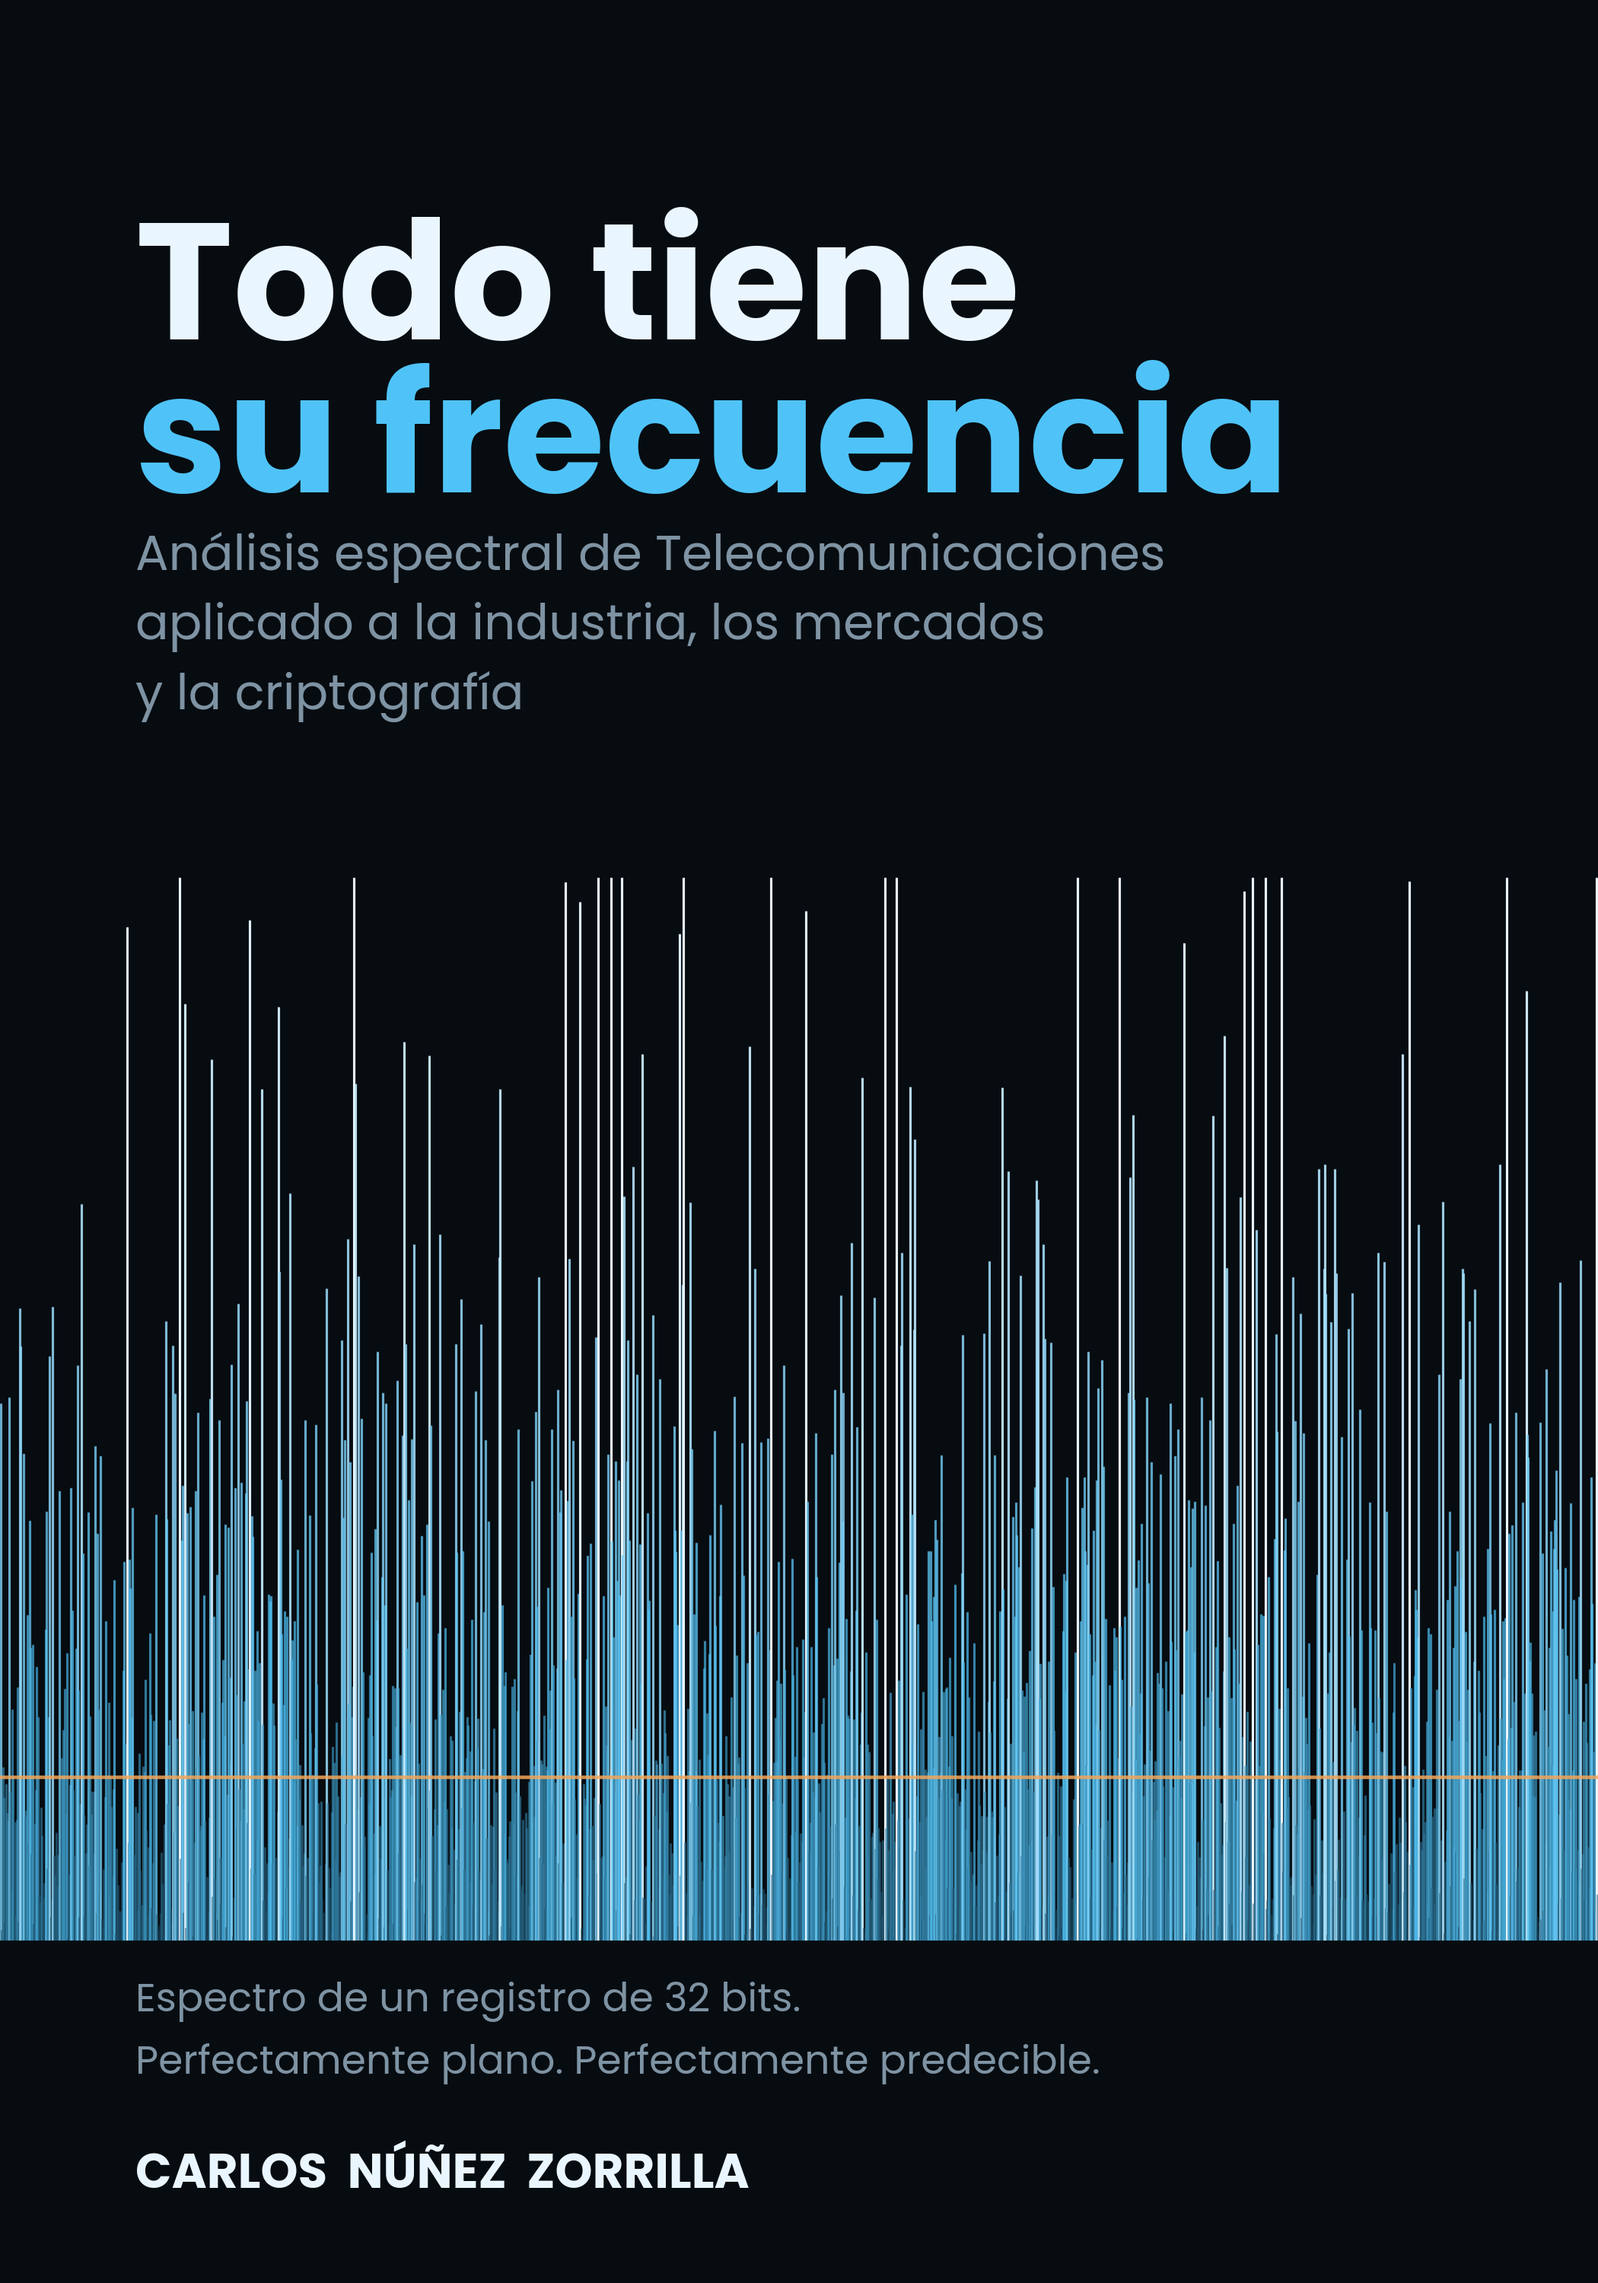
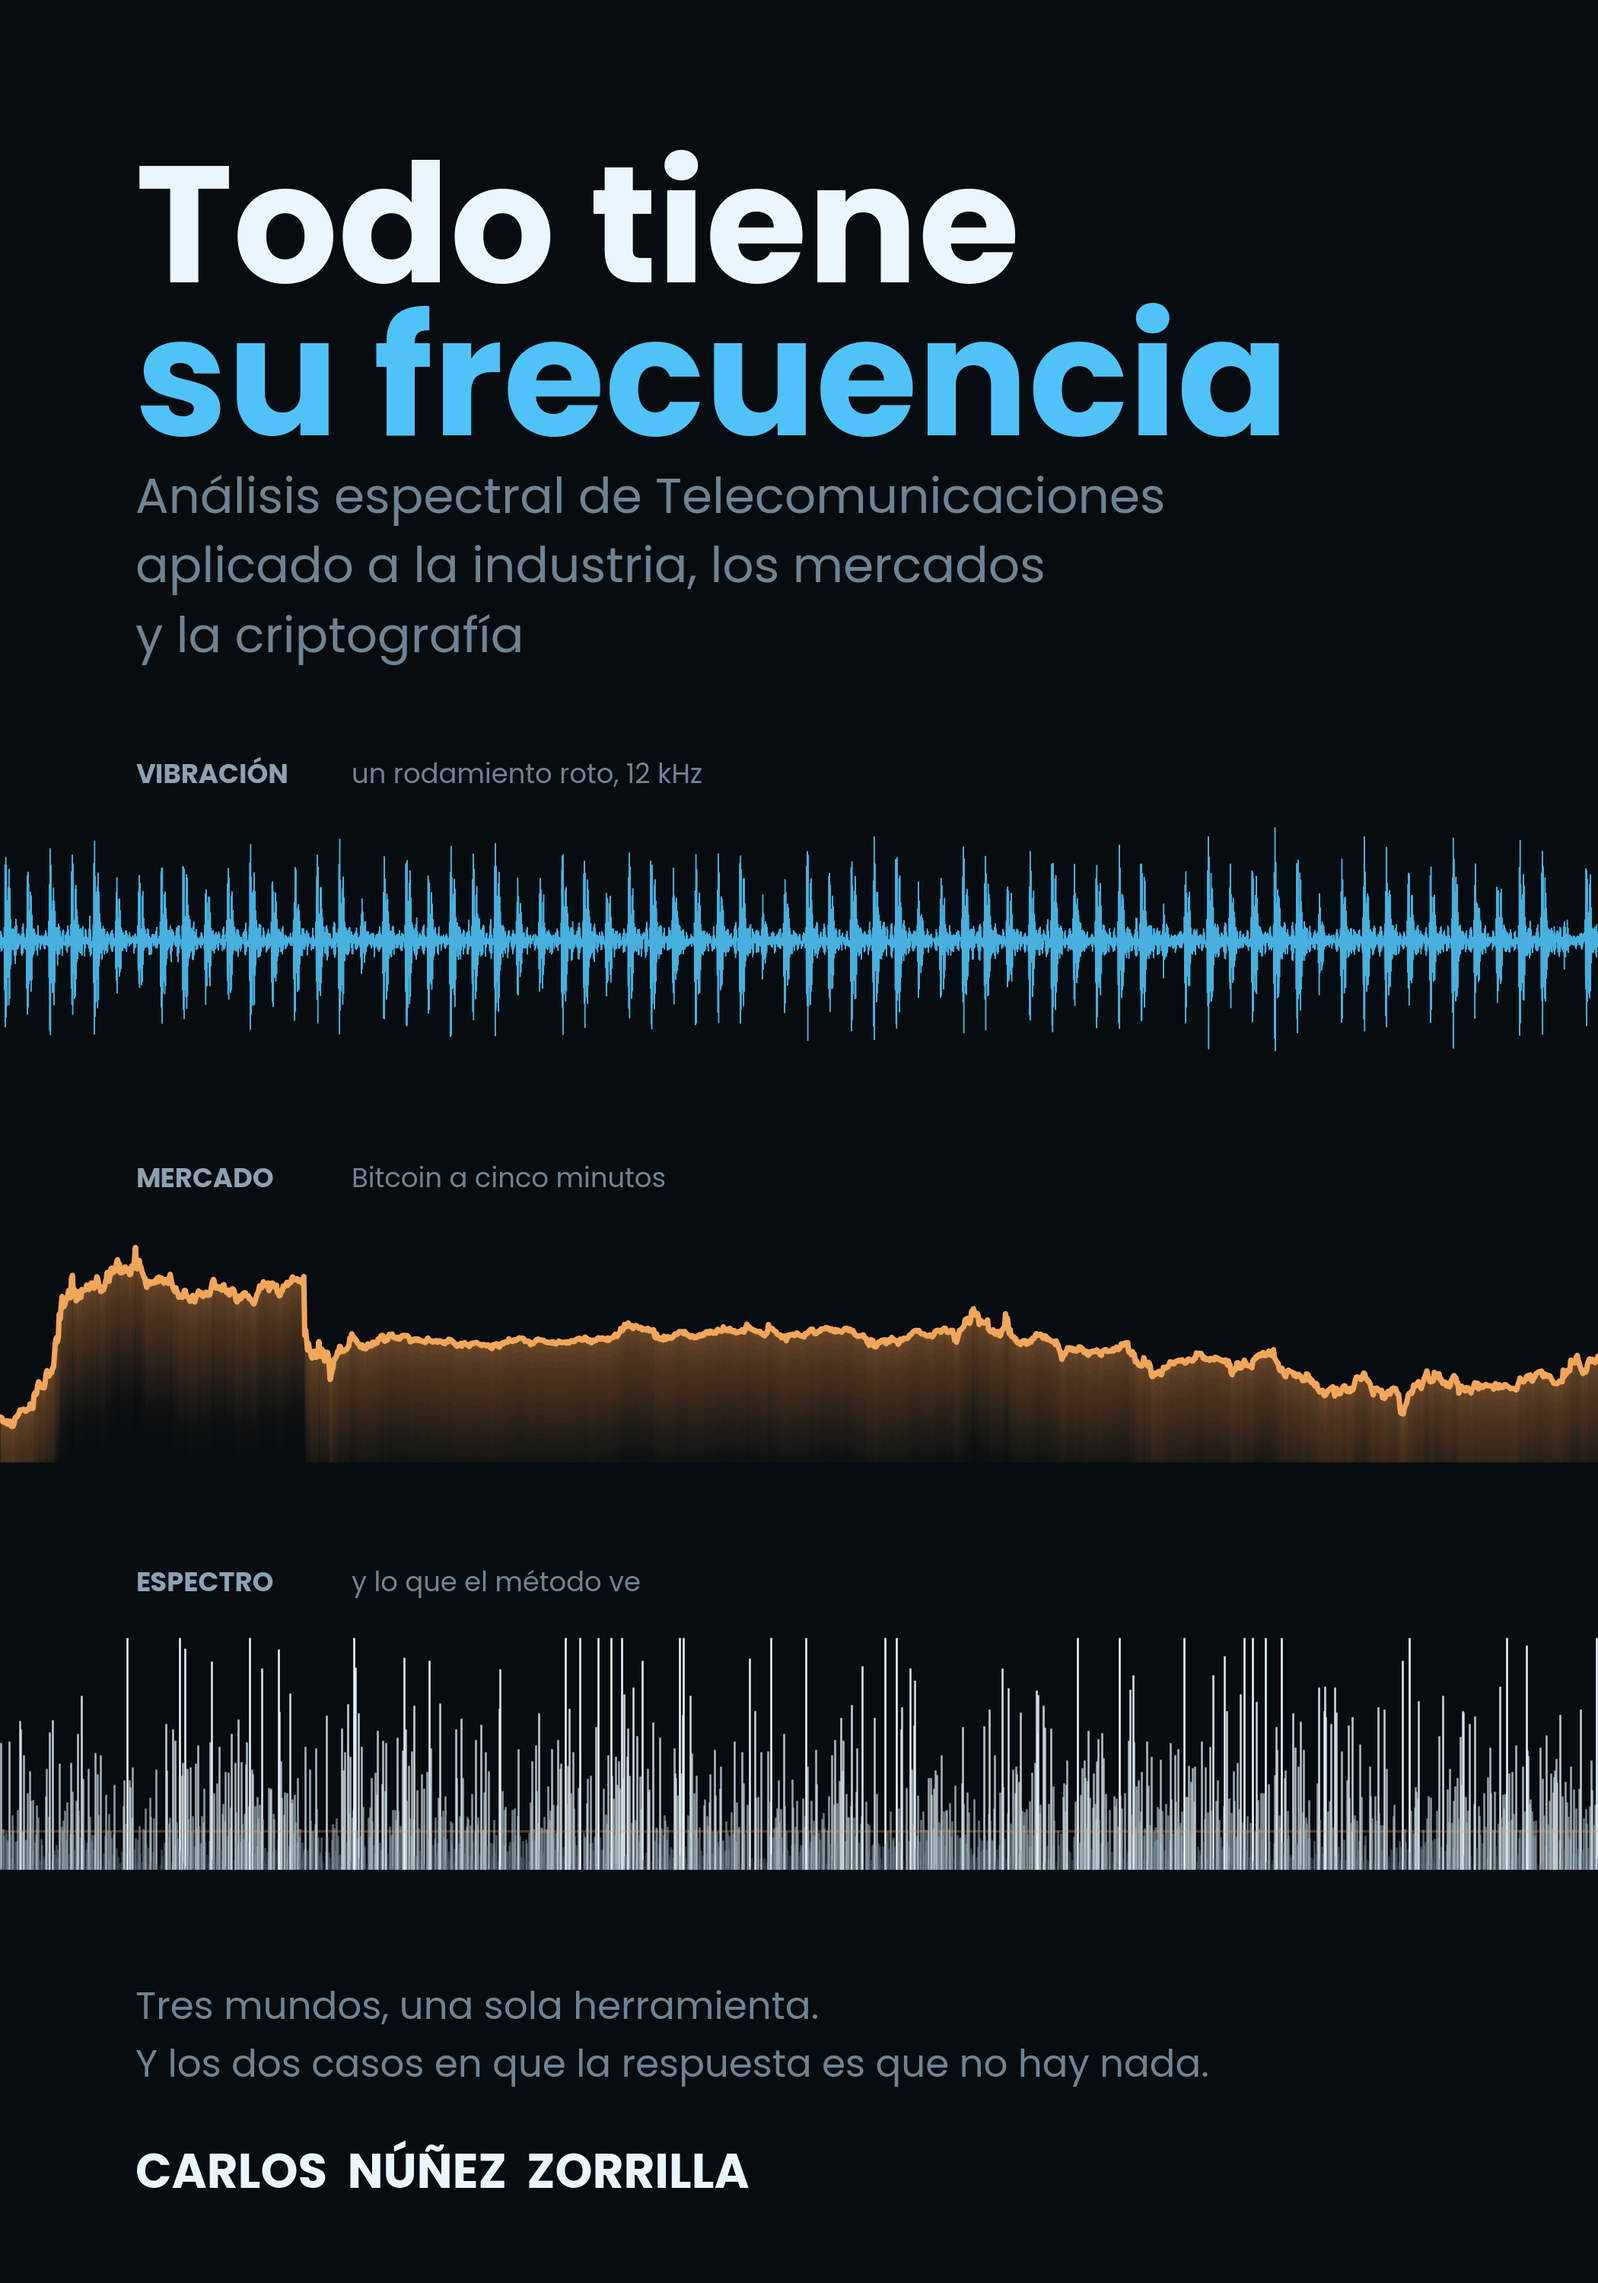
Portada nueva: tres trazas reales, una por dominio
Vibracion de Case Western, precio de Bitcoin en velas de 5 minutos y el
espectro plano del LFSR. Sigue sin haber ninguna imagen hecha a mano.

Claude-Session: https://claude.ai/code/session_012AXus1cbTtVEoxU6vHaggX

Changed region(s): [[0.0, 0.372, 1.0, 0.93], [0.0929, 0.062, 0.8048, 0.341]]

diff --git a/codigo/portada.py b/codigo/portada.py
@@ -1,92 +1,151 @@
-"""Portada del libro — generada por codigo, con datos reales.
+"""Portada del libro — generada por codigo, con los datos reales de los tres mundos.
 
-La imagen es el periodograma crudo del LFSR de 32 bits del capitulo 1:
-un espectro perfectamente plano producido por una secuencia perfectamente
-determinista. La portada es la tesis del libro.
+Tres trazas, una por dominio, ninguna inventada:
+  1. Vibracion de un rodamiento con defecto real (Case Western Reserve University).
+  2. Bitcoin a cinco minutos, el precio que liquida el mercado de Polymarket.
+  3. El espectro plano del LFSR de 32 bits del capitulo 1 — la tesis del libro.
+
+Necesita datos ya descargados: ejecuta antes descargar_cwru.py (banda 1) y
+download.py + candles.py + construir.py (banda 2).
 
 Salida: figuras/portada.png  (2100 x 3000 px = 7 x 10 pulgadas a 300 ppp,
 que es el tamano que pide Leanpub para este tamano de pagina).
 """
-import os, sys
+import os, sys, pickle
 sys.path.insert(0, os.path.dirname(os.path.abspath(__file__)))
-from rutas import figuras
+from rutas import datos, figuras
 
 import numpy as np, matplotlib
 matplotlib.use('Agg')
 import matplotlib.pyplot as plt
 from matplotlib.collections import LineCollection
+from scipy.io import loadmat
 import bateria as B
 
 # --- paleta ---------------------------------------------------------------
-FONDO = "#070C11"
-CIAN  = "#4FC3F7"
-CLARO = "#EAF6FF"
-MUTE  = "#7E93A3"
-ACENTO= "#F2A65A"
+FONDO  = "#070C11"
+CIAN   = "#4FC3F7"
+AMBAR  = "#F2A65A"
+HUESO  = "#D5E3EC"
+CLARO  = "#EAF6FF"
+MUTE   = "#6E8494"
+ETIQ   = "#8CA2B2"
 
-TITULO = "Poppins" if "Poppins" in {f.name for f in
-          matplotlib.font_manager.fontManager.ttflist} else "DejaVu Sans"
-TEXTO  = TITULO
+_fam = {f.name for f in matplotlib.font_manager.fontManager.ttflist}
+TIPO = "Poppins" if "Poppins" in _fam else "DejaVu Sans"
 
-# --- los datos ------------------------------------------------------------
+def sin_marco(ax):
+    for s in ax.spines.values():
+        s.set_visible(False)
+    ax.set_xticks([]); ax.set_yticks([])
+    ax.set_facecolor(FONDO)
+
+# ==========================================================================
+#  1. VIBRACION — rodamiento con defecto en pista exterior (registro 130)
+# ==========================================================================
+m = loadmat(datos("130.mat"))
+clave = [k for k in m if k.endswith("_DE_time")][0]
+vib = m[clave].ravel().astype(float)
+vib = vib[20000:20000 + 8000]            # 0,67 s a 12 kHz
+vib = vib / np.abs(vib).max()
+
+# ==========================================================================
+#  2. MERCADO — precio de Bitcoin en velas de 5 minutos
+# ==========================================================================
+d = pickle.load(open(datos("data.pkl"), "rb"))
+velas = sorted(d["cd"].values(), key=lambda v: v[0])
+cierre = np.array([v[4] for v in velas[-1700:]], dtype=float)   # ~6 dias
+cierre = (cierre - cierre.min()) / (cierre.max() - cierre.min())
+
+# ==========================================================================
+#  3. ESPECTRO — el LFSR de 32 bits del capitulo 1
+# ==========================================================================
 N = 70000
-bits = B.lfsr(N)
-x = 2 * bits.astype(float) - 1
+x = 2 * B.lfsr(N).astype(float) - 1
 I = np.abs(np.fft.rfft(x))[1:] ** 2
 I = I / np.median(I)
-
 COLS = 1500
-idx = np.linspace(0, len(I) - 1, COLS).astype(int)
-v = I[idx]
-TOPE = 6.5
-v = np.clip(v, 0, TOPE)
+esp = np.clip(I[np.linspace(0, len(I) - 1, COLS).astype(int)], 0, 6.0)
 
-# --- lienzo ---------------------------------------------------------------
+# ==========================================================================
+#  lienzo
+# ==========================================================================
 fig = plt.figure(figsize=(7, 10), dpi=300)
 fig.patch.set_facecolor(FONDO)
 
-ax = fig.add_axes([0.0, 0.150, 1.0, 0.475])
-ax.set_facecolor(FONDO)
-for s in ax.spines.values():
-    s.set_visible(False)
-ax.set_xticks([]); ax.set_yticks([])
-ax.set_xlim(-0.5, COLS - 0.5); ax.set_ylim(0, TOPE * 1.02)
+X0 = 0.085                              # margen del texto
+XB, ANCHO = 0.0, 1.0                    # las trazas van a sangre
+ALTO = 0.105
+BANDAS = [0.535, 0.358, 0.181]          # base de cada banda
 
-# barras verticales coloreadas por altura: cian abajo, casi blanco arriba
-segs = [[(i, 0), (i, vi)] for i, vi in enumerate(v)]
-t = (v / TOPE) ** 0.6
+ETIQUETAS = [
+    ("VIBRACIÓN",  "un rodamiento roto, 12 kHz"),
+    ("MERCADO",    "Bitcoin a cinco minutos"),
+    ("ESPECTRO",   "y lo que el método ve"),
+]
+
+# --- banda 1: la vibracion, linea densa e impulsiva
+ax = fig.add_axes([XB, BANDAS[0], ANCHO, ALTO]); sin_marco(ax)
+ax.plot(vib, color=CIAN, lw=0.35, alpha=0.9)
+ax.set_xlim(0, len(vib)); ax.set_ylim(-1.05, 1.05)
+
+# --- banda 2: el precio, linea gruesa con relleno
+ax = fig.add_axes([XB, BANDAS[1], ANCHO, ALTO]); sin_marco(ax)
+t = np.arange(len(cierre))
+CAPAS = 26                              # degradado suave bajo la curva
+for i in range(CAPAS):
+    k = 0.90 * (i + 1) / CAPAS
+    ax.fill_between(t, np.maximum(cierre - k, -0.20), cierre, color=AMBAR,
+                    alpha=0.030 * (1 - i / CAPAS) + 0.006, lw=0)
+ax.plot(t, cierre, color=AMBAR, lw=1.7, solid_capstyle='round')
+ax.set_xlim(0, len(cierre) - 1); ax.set_ylim(-0.22, 1.12)
+
+# --- banda 3: el espectro, barras verticales
+ax = fig.add_axes([XB, BANDAS[2], ANCHO, ALTO]); sin_marco(ax)
+segs = [[(i, 0), (i, v)] for i, v in enumerate(esp)]
+t3 = (esp / 6.0) ** 0.6
 cmap = matplotlib.colors.LinearSegmentedColormap.from_list(
-    "esp", ["#0E2E42", CIAN, CLARO])
-rgba = cmap(t)
-rgba[:, 3] = 0.42 + 0.58 * t          # las columnas bajas pesan menos
-lc = LineCollection(segs, colors=rgba, linewidths=0.75)
-ax.add_collection(lc)
+    "esp", ["#123246", HUESO, CLARO])
+rgba = cmap(t3); rgba[:, 3] = 0.28 + 0.72 * t3
+ax.add_collection(LineCollection(segs, colors=rgba, linewidths=0.62))
+ax.axhline(1.0, color=AMBAR, lw=0.8, alpha=0.30)
+ax.set_xlim(-0.5, COLS - 0.5); ax.set_ylim(0, 6.2)
 
-# la mediana: la linea que dice "aqui no sobresale nada"
-ax.axhline(1.0, color=ACENTO, lw=1.1, alpha=0.85, zorder=5)
+# --- etiquetas de banda
+for base, (fuerte, resto) in zip(BANDAS, ETIQUETAS):
+    y = base + ALTO + 0.014
+    fig.text(X0, y, fuerte, color=ETIQ, fontsize=8.5, fontfamily=TIPO,
+             fontweight='bold', va='bottom', ha='left')
+    fig.text(X0 + 0.135, y, resto, color=MUTE, fontsize=8.5, fontfamily=TIPO,
+             va='bottom', ha='left')
 
-# --- tipografia -----------------------------------------------------------
-fig.text(0.085, 0.905, "Todo tiene", color=CLARO, fontsize=52,
-         fontweight='bold', fontfamily=TITULO, va='top', ha='left')
-fig.text(0.085, 0.838, "su frecuencia", color=CIAN, fontsize=52,
-         fontweight='bold', fontfamily=TITULO, va='top', ha='left')
-
-fig.text(0.085, 0.767, "Análisis espectral de Telecomunicaciones\n"
-                       "aplicado a la industria, los mercados\n"
-                       "y la criptografía",
-         color=MUTE, fontsize=15.5, fontfamily=TEXTO, va='top', ha='left',
+# --- tipografia
+fig.text(X0, 0.930, "Todo tiene", color=CLARO, fontsize=52,
+         fontweight='bold', fontfamily=TIPO, va='top', ha='left')
+fig.text(X0, 0.863, "su frecuencia", color=CIAN, fontsize=52,
+         fontweight='bold', fontfamily=TIPO, va='top', ha='left')
+fig.text(X0, 0.792, "Análisis espectral de Telecomunicaciones\n"
+                    "aplicado a la industria, los mercados\n"
+                    "y la criptografía",
+         color=MUTE, fontsize=15.5, fontfamily=TIPO, va='top', ha='left',
          linespacing=1.5)
 
-fig.text(0.085, 0.132, "Espectro de un registro de 32 bits.\n"
-                       "Perfectamente plano. Perfectamente predecible.",
-         color=MUTE, fontsize=12.5, fontfamily=TEXTO, va='top', ha='left',
+fig.text(X0, 0.128, "Tres mundos, una sola herramienta.\n"
+                    "Y los dos casos en que la respuesta es que no hay nada.",
+         color=MUTE, fontsize=12, fontfamily=TIPO, va='top', ha='left',
          linespacing=1.7)
-
-fig.text(0.085, 0.036, "CARLOS  NÚÑEZ  ZORRILLA", color=CLARO, fontsize=15,
-         fontweight='bold', fontfamily=TITULO, va='bottom', ha='left')
+fig.text(X0, 0.036, "CARLOS  NÚÑEZ  ZORRILLA", color=CLARO, fontsize=15,
+         fontweight='bold', fontfamily=TIPO, va='bottom', ha='left')
 
 destino = figuras("portada.png")
 fig.savefig(destino, facecolor=FONDO, dpi=300)
-print("portada:", destino)
-im = plt.imread(destino)
-print("pixeles:", im.shape[1], "x", im.shape[0])
+
+# sin canal alfa: Leanpub y los generadores de PDF prefieren RGB plano
+from PIL import Image
+im = Image.open(destino)
+if im.mode != "RGB":
+    plano = Image.new("RGB", im.size, (7, 12, 17))
+    plano.paste(im, mask=im.split()[-1])
+    plano.save(destino, "PNG", optimize=True)
+    im = plano
+print(f"portada: {destino}  {im.size[0]}x{im.size[1]} {im.mode}")
